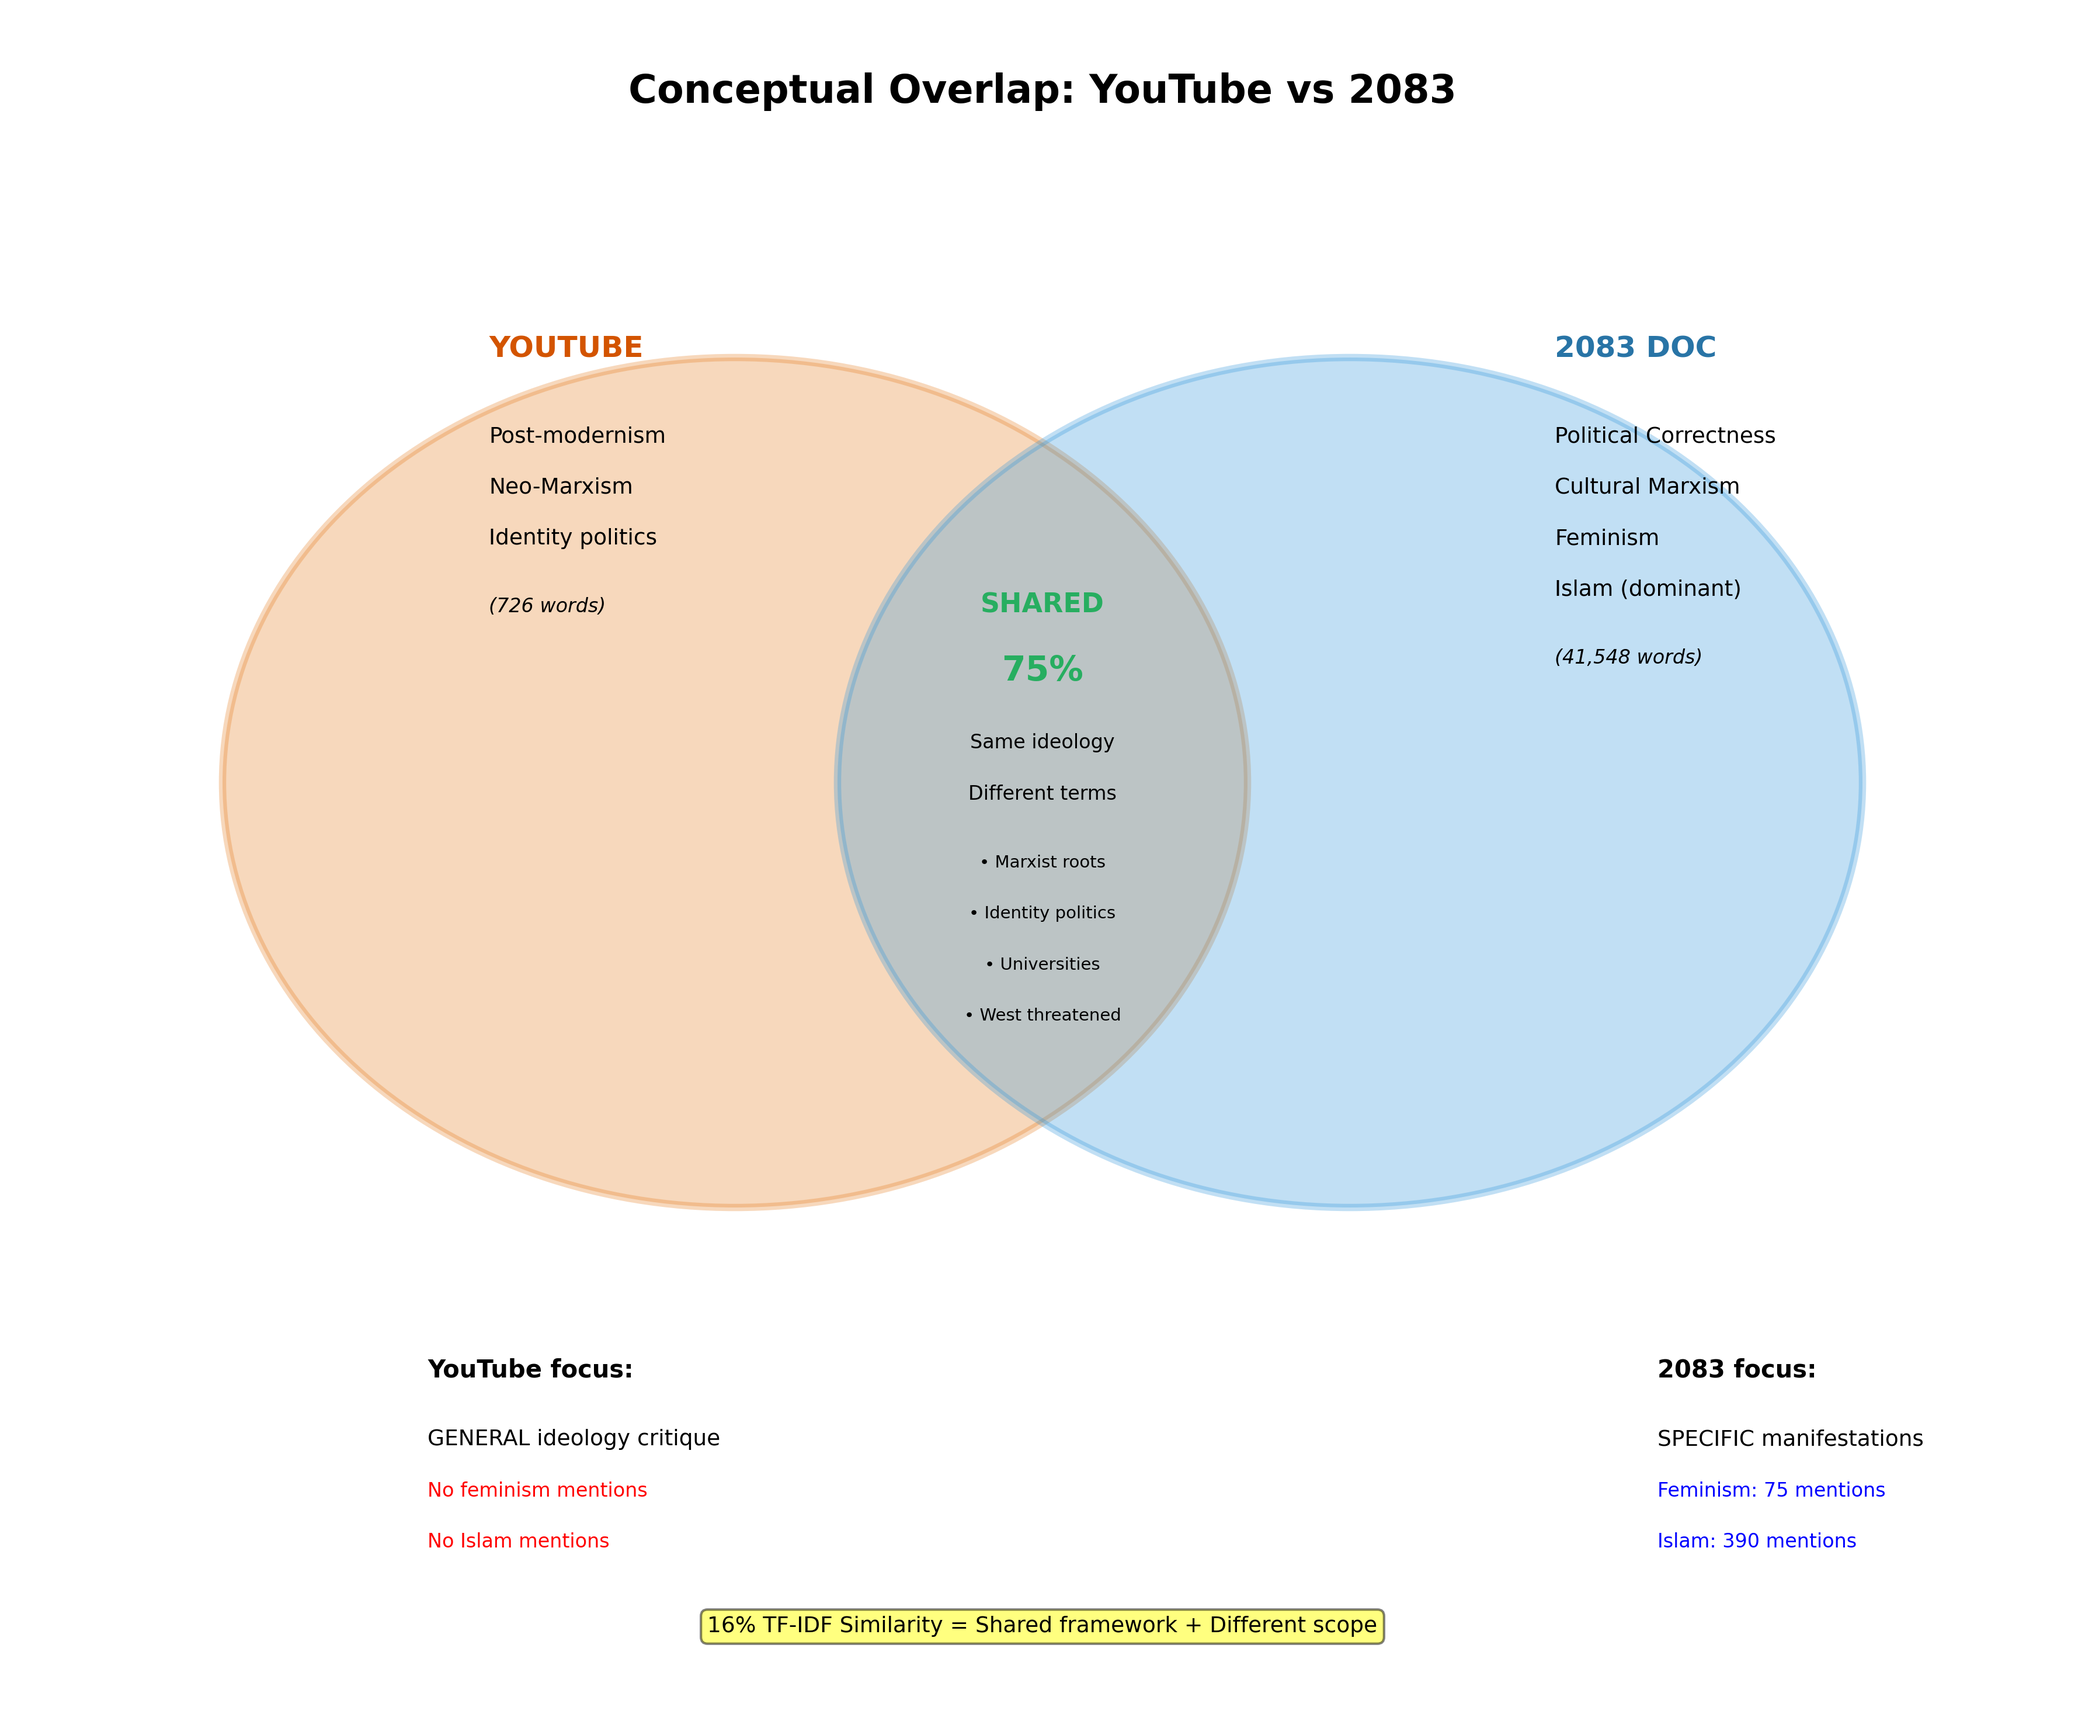
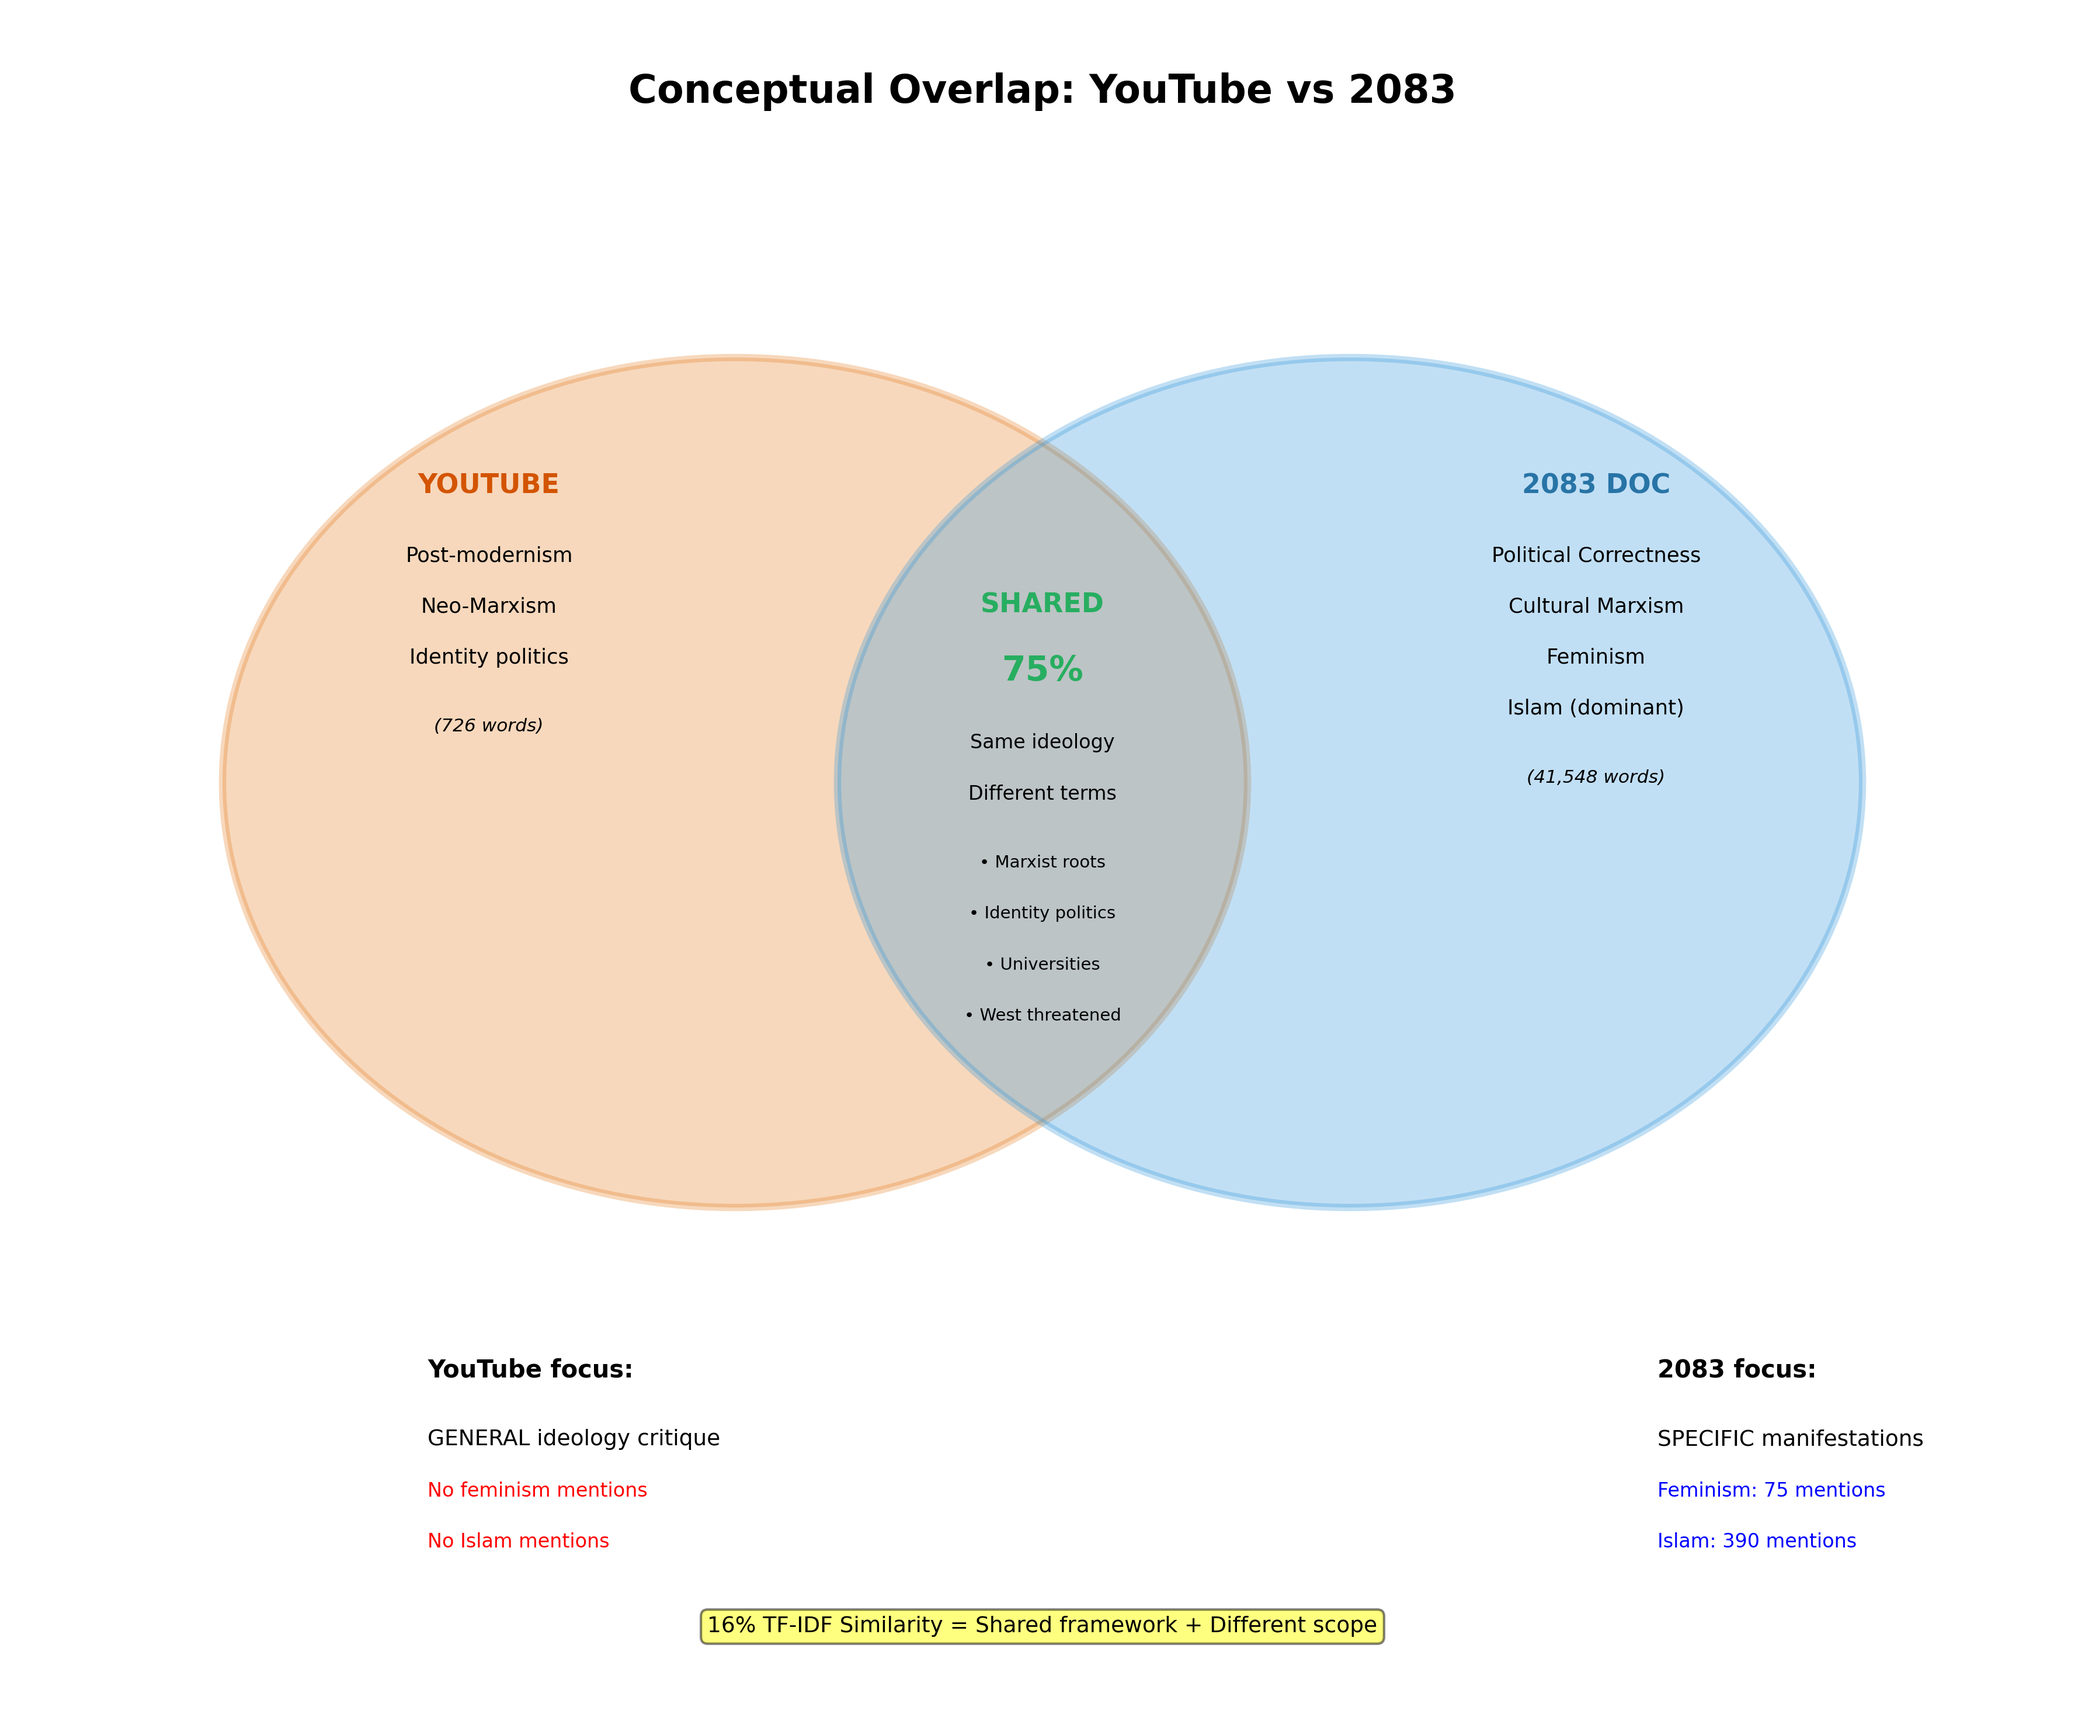
Improve text positioning and sizing in Venn diagram disjoint sections

diff --git a/visualize_shared_roots.py b/visualize_shared_roots.py
@@ -202,19 +202,19 @@ def create_venn_style_overlap():
     ax.add_patch(doc_circle)
     
     # YouTube label (left disjoint section)
-    ax.text(2.2, 7.8, 'YOUTUBE', fontsize=12, fontweight='bold', color='#d35400', ha='center')
-    ax.text(2.2, 7.4, 'Post-modernism', fontsize=9, ha='center')
-    ax.text(2.2, 7.1, 'Neo-Marxism', fontsize=9, ha='center')
-    ax.text(2.2, 6.8, 'Identity politics', fontsize=9, ha='center')
-    ax.text(2.2, 6.4, '(726 words)', fontsize=8, style='italic', ha='center')
+    ax.text(2.3, 7.2, 'YOUTUBE', fontsize=11, fontweight='bold', color='#d35400', ha='center')
+    ax.text(2.3, 6.8, 'Post-modernism', fontsize=8.5, ha='center')
+    ax.text(2.3, 6.5, 'Neo-Marxism', fontsize=8.5, ha='center')
+    ax.text(2.3, 6.2, 'Identity politics', fontsize=8.5, ha='center')
+    ax.text(2.3, 5.8, '(726 words)', fontsize=7.5, style='italic', ha='center')
     
     # 2083 label (right disjoint section)
-    ax.text(7.8, 7.8, '2083 DOC', fontsize=12, fontweight='bold', color='#2874a6', ha='center')
-    ax.text(7.8, 7.4, 'Political Correctness', fontsize=9, ha='center')
-    ax.text(7.8, 7.1, 'Cultural Marxism', fontsize=9, ha='center')
-    ax.text(7.8, 6.8, 'Feminism', fontsize=9, ha='center')
-    ax.text(7.8, 6.5, 'Islam (dominant)', fontsize=9, ha='center')
-    ax.text(7.8, 6.1, '(41,548 words)', fontsize=8, style='italic', ha='center')
+    ax.text(7.7, 7.2, '2083 DOC', fontsize=11, fontweight='bold', color='#2874a6', ha='center')
+    ax.text(7.7, 6.8, 'Political Correctness', fontsize=8.5, ha='center')
+    ax.text(7.7, 6.5, 'Cultural Marxism', fontsize=8.5, ha='center')
+    ax.text(7.7, 6.2, 'Feminism', fontsize=8.5, ha='center')
+    ax.text(7.7, 5.9, 'Islam (dominant)', fontsize=8.5, ha='center')
+    ax.text(7.7, 5.5, '(41,548 words)', fontsize=7.5, style='italic', ha='center')
     
     # Overlap section (center)
     ax.text(5, 6.5, 'SHARED', fontsize=11, fontweight='bold', ha='center', color='#27ae60')
